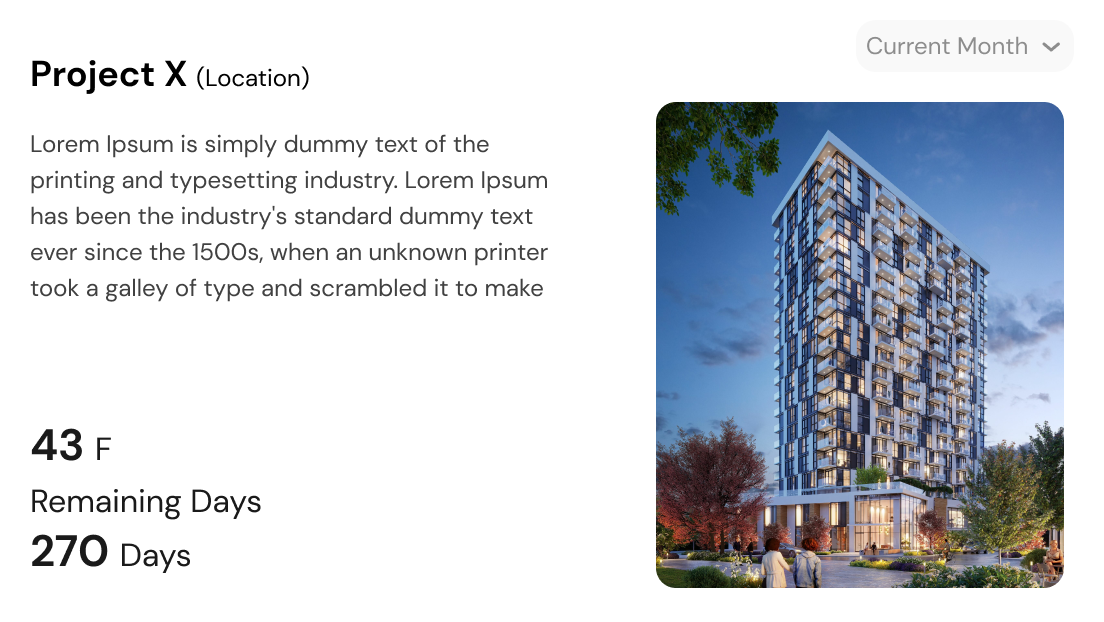
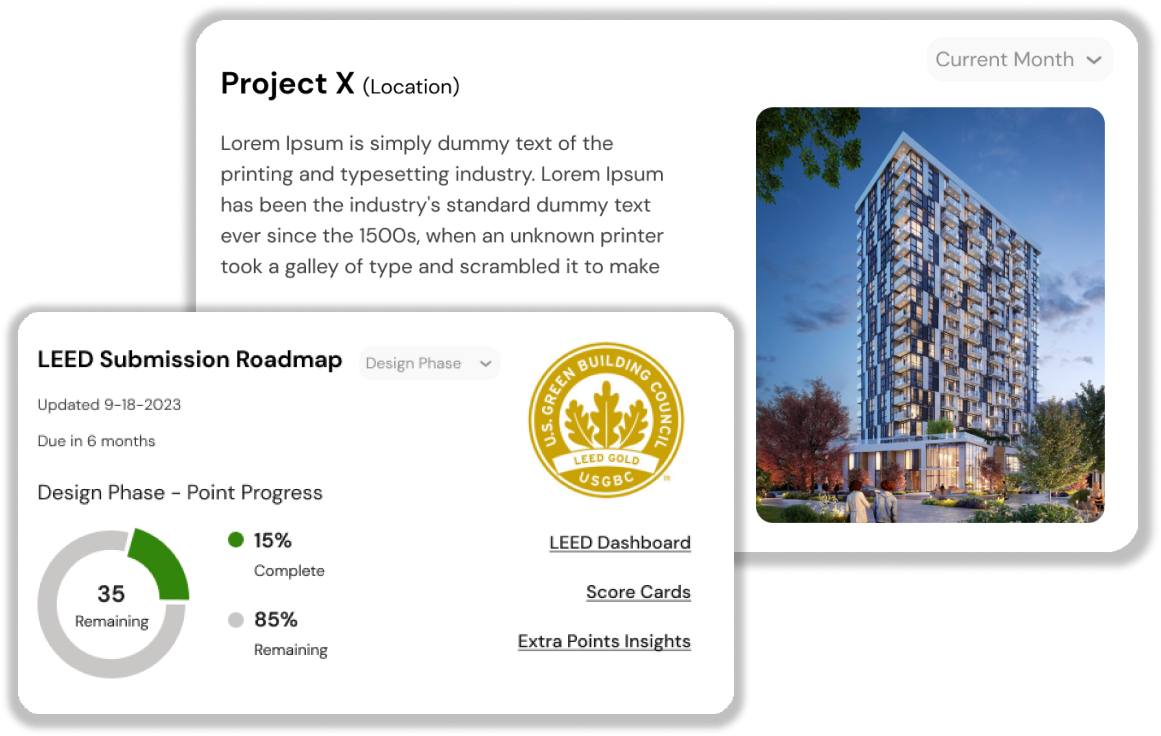
wokrn

diff --git a/pages/services/leef-certification-management-software/ServicesLEEDCertificationM.module.css b/pages/services/leef-certification-management-software/ServicesLEEDCertificationM.module.css
@@ -233,18 +233,16 @@
   width: 100%;
   height: 100%;
   object-fit: contain;
-  position: absolute;
+  /* position: absolute; */
   left: 1px;
   top: 1px;
   transform: scale(1.068);
 }
 .wrapperGroup10000024971 {
-  position: absolute;
-  top: 0;
-  left: 104px;
+margin-top: 105px;
   border-radius: var(--br-xs);
-  width: 552px;
-  height: 311px;
+  width: 656px;
+  height: 406px;
   display: flex;
   align-items: center;
   justify-content: center;
@@ -256,7 +254,7 @@
   object-fit: contain;
   position: absolute;
   left: 0;
-  top: 2px;
+  top: 100px;
   transform: scale(1.076);
 }
 .wrapperGroup12160252331 {
@@ -325,10 +323,10 @@
 .luxaLEEDSteps {
   width: 601px;
   border-radius: var(--br-xs);
-  border: 4px solid var(--primary-linear-color);
+  /* border: 4px solid var(--primary-linear-color); */
   box-sizing: border-box;
-  display: flex;
-  flex-direction: row;
+  /* display: flex;
+  flex-direction: row; */
   align-items: flex-start;
   justify-content: center;
   padding: var(--padding-9xs) var(--padding-7xs) var(--padding-sm)
@@ -428,7 +426,7 @@
 }
 .group12160252341 {
   height: 332px;
-  flex: 1;
+  /* flex: 1; */
   position: relative;
   border-radius: var(--br-2xs);
   max-width: 100%;
@@ -446,7 +444,7 @@
 .lEEDCertificationManageme {
   width: 654px;
   border-radius: var(--br-xs);
-  border: 4px solid var(--primary-linear-color);
+  /* border: 4px solid var(--primary-linear-color); */
   box-sizing: border-box;
   justify-content: center;
   padding: var(--padding-xs) var(--padding-sm) var(--padding-mini)

diff --git a/pages/services/leef-certification-management-software/index.tsx b/pages/services/leef-certification-management-software/index.tsx
@@ -162,14 +162,7 @@ const ServicesLEEDCertificationM: NextPage = () => {
                 className={styles.group10000024971}
                 loading="eager"
                 alt=""
-                src="/group-1000002497-1@2x.png"
-              />
-            </div>
-            <div className={styles.wrapperGroup12160252331}>
-              <img
-                className={styles.group12160252331}
-                alt=""
-                src="/group-1216025233-1@2x.png"
+                src="/group-1000002497-2@2x.png"
               />
             </div>
           </div>
@@ -217,7 +210,6 @@ const ServicesLEEDCertificationM: NextPage = () => {
               </div>
             </div>
             <div className={styles.lEEDCertificationManageme}>
-              <div className={styles.lEEDCertificationManagemeChild} />
               <img
                 className={styles.group12160252341}
                 loading="eager"

diff --git a/components/homepageContainer.module.css b/components/homepageContainer.module.css
@@ -64,7 +64,6 @@
   font-size: var(--font-size-lg);
   font-weight: 500;
   font-family: var(--font-dm-sans);
-  color: var(--color-white);
   text-align: left;
   z-index: 1;
 }
@@ -84,6 +83,8 @@
   gap: var(--gap-mini);
   white-space: nowrap;
   z-index: 2;
+  color: var(--color-white);
+
 }
 .frameItem {
   height: 57px;
@@ -110,6 +111,13 @@
   display: flex;
   flex-direction: row;
 }
+.rectangleParent:hover{
+  background: var(--color-seagreen-300);
+  border: 2px solid var(--color-seagreen-100);
+  box-sizing: border-box;
+transition: all 0.5s ease-out;
+color: #0D703C;
+}
 .rectangleGroup {
   cursor: pointer;
   border: 2px solid var(--primary-linear-color);
@@ -125,6 +133,8 @@
   background-color: var(--color-seagreen-300);
   border: 2px solid var(--color-seagreen-100);
   box-sizing: border-box;
+transition: all 0.5s ease-out;
+
 }
 .line {
   align-items: flex-start;

diff --git a/pages/services/index.tsx b/pages/services/index.tsx
@@ -81,13 +81,13 @@ const ServicesMain: NextPage = () => {
                 src="/group-1000002497-2@2x.png"
               />
             </div>
-            <div className={styles.wrapperGroup12160252332}>
+            {/* <div className={styles.wrapperGroup12160252332}>
               <img
                 className={styles.group12160252332}
                 alt=""
                 src="/group-1216025233-2@2x.png"
               />
-            </div>
+            </div> */}
           </div>
         </div>
       </section>
@@ -171,7 +171,7 @@ const ServicesMain: NextPage = () => {
       </section>
       <FrameComponent />
       {/* <Group /> */}
-      <DataAnalyticsInsightsContainer dataforcard={"Testing.."} />
+      <DataAnalyticsInsightsContainer dataforcard={""} />
       
       <ContactFormContainer
         imageSize="/frame1.svg"

diff --git a/components/SectionServices.tsx b/components/SectionServices.tsx
@@ -1,7 +1,10 @@
 import type { NextPage } from "next";
 import styles from "./SectionServices.module.css";
 import Mheader from "./mainheader";
+import { useState } from "react";
 const SectionServices: NextPage = () => {
+  const [activeLink, setActiveLink] =  useState("company");
+
   return (
     <section className={styles.companyInner}>
       <div className={styles.rectangleParent}>
@@ -65,7 +68,7 @@ const SectionServices: NextPage = () => {
             </button>
           </div>
         </header> */}
-        <Mheader activeLink={""}/>
+        <Mheader activeLink={activeLink}/>
         <div className={styles.contactUs}>
           <div className={styles.partners}>
             <h1 className={styles.meetLuxaBuilding}>

diff --git a/components/mainheader.tsx b/components/mainheader.tsx
@@ -16,7 +16,6 @@ const mainheader: React.FC<HeaderProps> = ({ activeLink, ...props }) => {
 
 
   const [activeLinks, setActiveLink] =  useState("");
-  console.log('activeLink',activeLink);
   const handleMouseEnter = () => {
     setIsDropdownOpen(true);
     setchangeStroke(true)
@@ -226,7 +225,9 @@ const mainheader: React.FC<HeaderProps> = ({ activeLink, ...props }) => {
           </Link>
           
          <Link href="/company">
-         <div className={styles.company}>Company</div>
+         <div className={`${styles.company} ${
+              activeLink === "company" ? styles.activeLink : ""
+            }`} onClick={() => handleLinkClick("company")}>Company</div>
          </Link>
         
           

diff --git a/components/TextElements.module.css b/components/TextElements.module.css
@@ -9,6 +9,21 @@
   font-weight: 500;
   z-index: 1;
 }
+.subscribeInput{
+  padding-left: 10px;
+  border: none;
+  color: #17773D;
+  background-color: #B7D5C5;
+}
+.subscribe:hover{
+  background: linear-gradient(96.43deg, #0D703C 0%, #A2D255 100%);
+color: #FFF;
+transition: all 0.5s ease-out;
+}
+.subscribeInput::placeholder {
+  color: #17773D;
+  opacity: 1; /* Firefox */
+}
 .readyToFindContainer {
   align-self: stretch;
   height: 130px;
@@ -63,6 +78,8 @@ font-size: 16px;
 font-style: normal;
 font-weight: 500;
 line-height: normal;
+cursor: pointer;
+
 }
 .emailoutreachprojectluxaorg {
   width: 339px;

diff --git a/components/TextElements.tsx b/components/TextElements.tsx
@@ -131,7 +131,7 @@ const TextElements: NextPage<TextElementsType> = ({ propMargin }) => {
               <h1 className={styles.readyToFindContainer}>
                 <p className={styles.readyToFind}>Subscribe News Letter</p>
               </h1>
-              <input type="text" alt=""/>
+              <input type="text" className={styles.subscribeInput} alt="" placeholder="Enter Email Address"/>
             </div>
             <div className={styles.subscribe}>Subscribe</div>
           </div>

diff --git a/components/Header.module.css b/components/Header.module.css
@@ -239,6 +239,9 @@
 .scroll {
   position: relative;
   z-index: 2;
+  margin-top: 10px;
+  cursor: pointer;
+
 }
 .scroll {
   width: 42px;
@@ -247,7 +250,6 @@
   transform: rotate(-90deg);
 }
 .arrowIcon {
-  width: 0;
   height: 14px;
   object-fit: contain;
 }
@@ -266,6 +268,12 @@
   gap: var(--gap-5xs);
   z-index: 1;
   color: var(--color-seagreen-200);
+  cursor: pointer;
+}
+.frameDiv:hover{
+  padding-top: 15px;
+transition: all 0.5s ease-out;
+
 }
 .contactInfoFrame,
 .rectangleParent,

diff --git a/components/Text2.module.css b/components/Text2.module.css
@@ -182,6 +182,16 @@
   padding: 28px;
 
 }
+.knowledgeCenter:hover{
+  color: orange;
+  font-weight: bold;
+  transition: all 0.5s ease-out;
+}
+.company:hover{
+  color: orange;
+  font-weight: bold;
+  transition: all 0.5s ease-out;
+}
 .pricing:hover{
   color: orange;
   font-weight: bold;
@@ -195,6 +205,8 @@
 }
 .activeLink{
 color: orange;
+font-weight: bold;
+
 }
 .services a{
   text-decoration: none;

diff --git a/components/Header.tsx b/components/Header.tsx
@@ -50,7 +50,7 @@ const Header: NextPage<HeaderType> = ({
           <div className={styles.frameDiv}>
             <div className={styles.rectangleDiv} />
             <div className={styles.scroll}>Scroll</div>
-            <img className={styles.arrowIcon} alt="" src="/arrow-7.svg" />
+            <img className={styles.arrowIcon} alt="" src="/arrow-7.png" />
           </div>
         </div>
       </div>

diff --git a/components/DataAnalyticsInsightsContainer.tsx b/components/DataAnalyticsInsightsContainer.tsx
@@ -16,7 +16,7 @@ const DataAnalyticsInsightsContainer:  NextPage<wordTypeDefine> =({
             <b className={styles.luxa}>{`LUXA `}</b>
             <span>{dataforcard}</span>
           </h1>
-          <div className={styles.footerFrame} />
+          {/* <div className={styles.footerFrame} /> */}
         </div>
         <div
           className={styles.contactUsToday}
